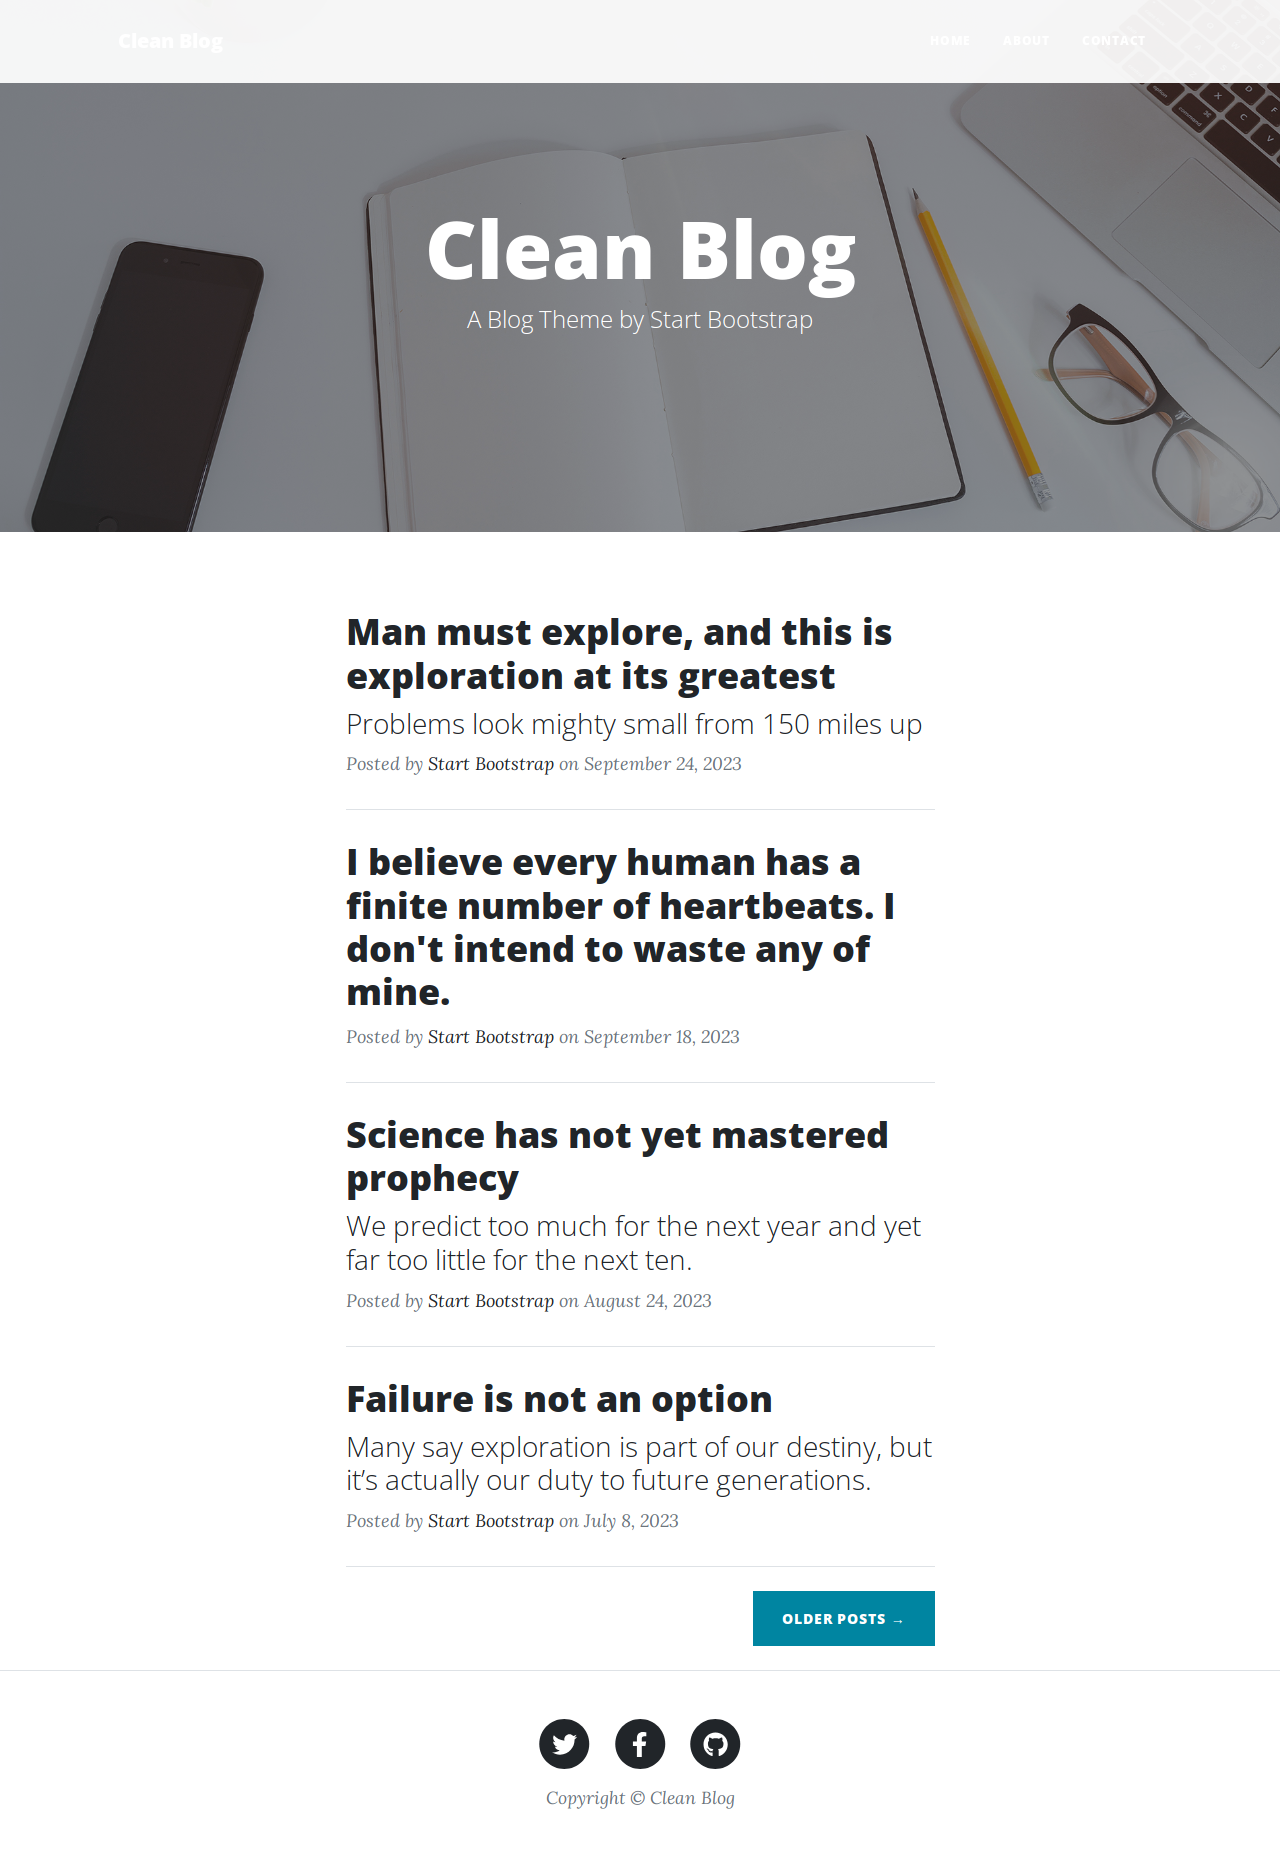
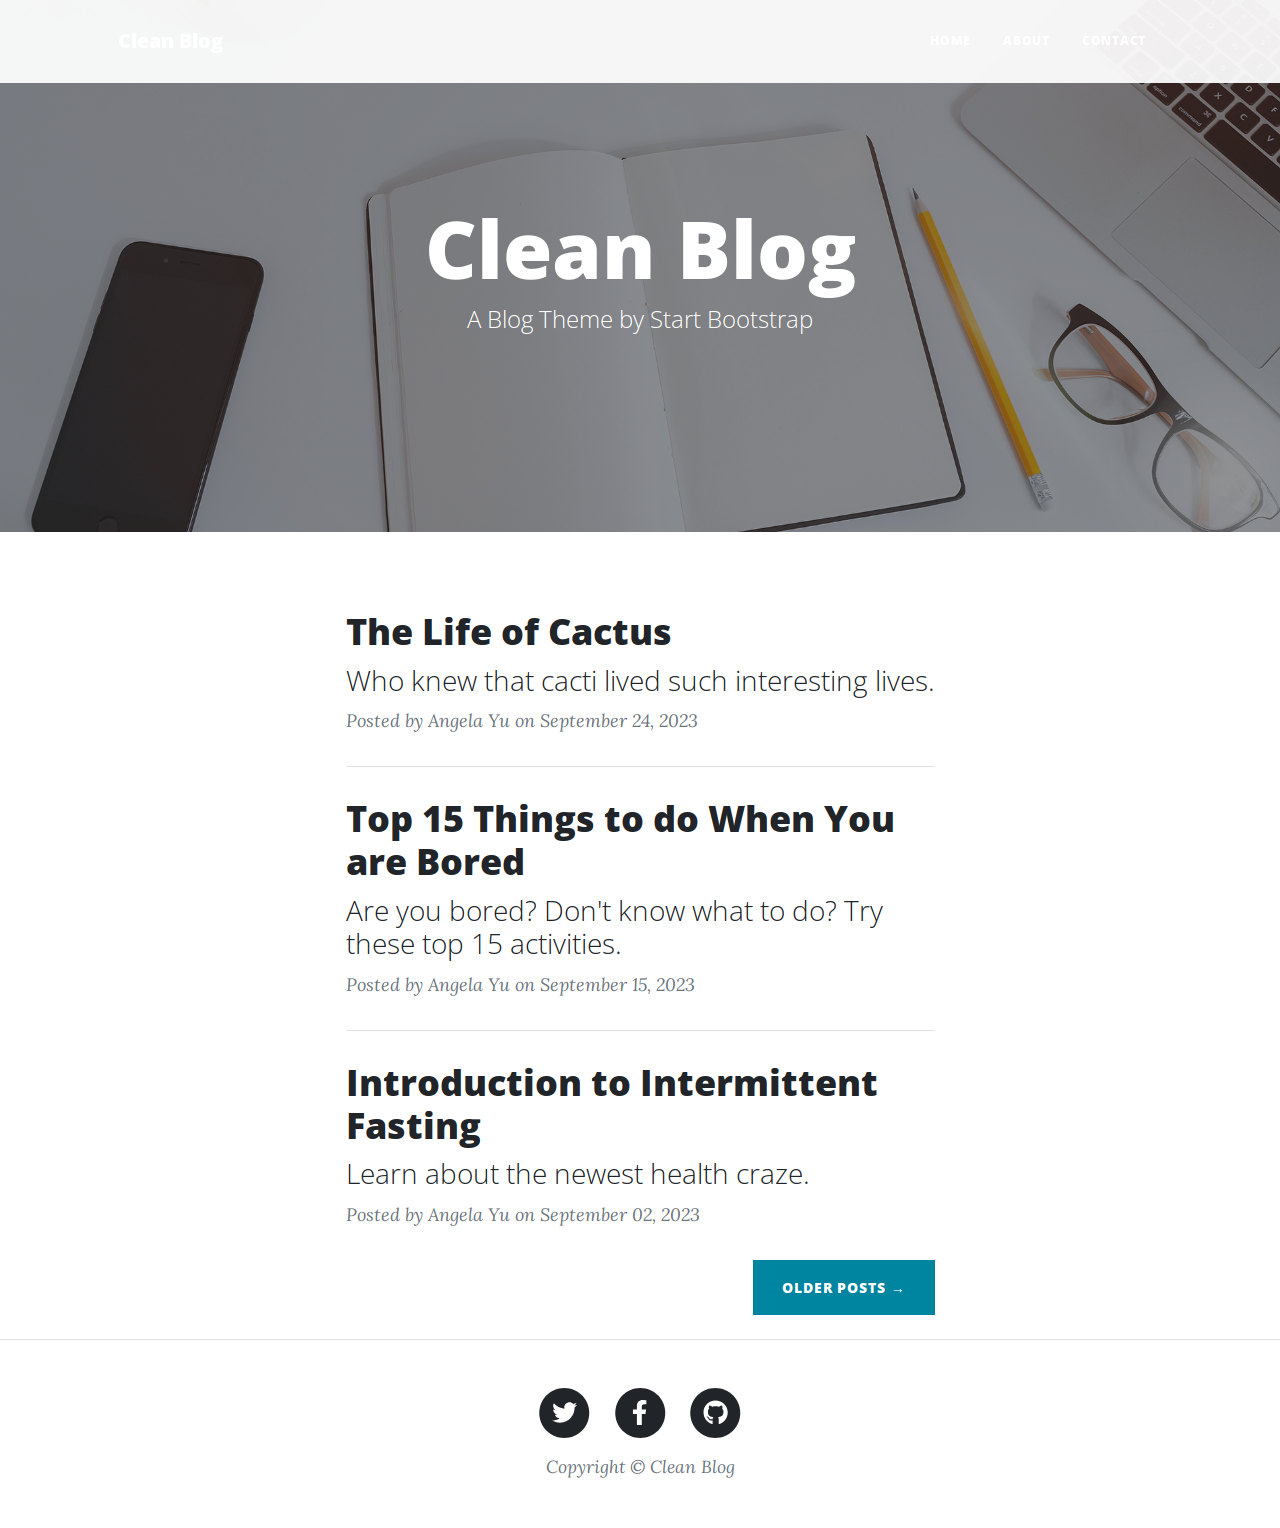
Add step 6-7 screenshots, review record and traceability row
Task: MIL-003#5
Refs #18

Changed region(s): [[0.0, 0.0923, 1.0, 0.9843], [0.0, 0.0308, 1.0, 0.1538]]

diff --git a/docs/sqa/reviews/rc-010-code-mil-003.md b/docs/sqa/reviews/rc-010-code-mil-003.md
@@ -1,0 +1,61 @@
+# Code review of MIL-003
+
+## Metadata
+| Key | Value |
+| --- | --- |
+| ID | RC-010 |
+| CrossReference | [MIL-003], [QC-PY-001] |
+
+## Version History
+| Date | Status | Author | Reviewer | Change | Commit |
+| --- | --- | --- | --- | --- | --- |
+| 2026-11-09 | Proposed | Jens Tirsvad Nielsen | AI as stand-in for S01 | Initial version; Mode: autonomous, not independent | pending |
+
+---
+
+## Artifact Under Review
+
+- Instance reviewed: source code and tests delivered for MIL-003 (posts repository, use cases, routes, templates and tests)
+- Checklist used: [QC-PY-001]
+- Scope: full review
+- Language and domain: n/a
+- Language reviewer: none
+- Mode: autonomous, not independent (reviewer: AI as stand-in for S01)
+
+## Checklist Results
+
+| # | Criterion | Status | Evidence/Notes |
+| --- | --- | --- | --- |
+| 1 | Packages, modules, functions, variables, classes and constants follow PEP 8 casing (`snake_case`, `PascalCase`, `UPPER_SNAKE`) | Pass | ruff (pycodestyle, pyflakes, isort, bugbear, pyupgrade, annotations) reports no naming finding. |
+| 2 | Names state purpose in the domain's language; no unexplained abbreviations, no single-letter names outside tiny scopes | Pass | Names state purpose (posts, repository, show_post); the assignment's function names are kept. |
+| 3 | Code is produced by the project's formatter and passes its linter with no unexplained suppressions | Pass | `ruff format` applied and `ruff check` reports no finding; no suppressions. |
+| 4 | Every function and method signature is type-annotated, including `-> None` | Pass | `ANN` rules of ruff are enabled and pass; `-> None` used. |
+| 5 | No bare `except:`, no swallowed exceptions; specific exceptions are raised and the cause is kept (`raise ... from`) | Pass | No bare except; failures are caught as specific exceptions and the cause is kept or handled by the fallback. |
+| 6 | No mutable default arguments and no shadowed builtins | Pass | ruff bugbear (B006, A) reports nothing. |
+| 7 | Files, locks and connections are managed with context managers | Pass | Network and file access use `with` blocks. |
+| 8 | Public modules, classes and functions have docstrings that say what, not how | Pass | Every public module, class and function has a Doxygen docstring; `doxygen Doxyfile` has 0 warnings. |
+| 9 | Logging uses `logging`, not `print`; no secrets or personal data in log output | Pass | No print calls in src/; no secrets handled. `.env` is not referenced by src/ or tests/. |
+| 10 | Classes and operations trace to the Design Class Diagram they implement; deviations are recorded | Pass | No Design Class Diagram exists; the milestone's Tasks table is the design (domain, application, infrastructure and route rows of MIL-003). |
+| 11 | Tests exist for new behaviour, are named for the behaviour, and do not depend on order or the network | Pass | 50 tests; the URL fetch is injected or monkeypatched, no test opens a socket; order independent. |
+| 12 | Type checker runs in strict mode without errors; `Any` is justified in a comment | Pass | `mypy --strict src` reports no issues. |
+| 13 | Dependencies are declared and pinned in the project's dependency file, none unused | Pass | Flask is the only runtime dependency; pytest, pytest-cov, ruff and mypy are development tools. |
+| 14 | Each piece of knowledge (a business rule, constant, format, validation or query) is defined in one place; code is merged only where it expresses the same knowledge, not where it merely looks alike | Pass | Constants are defined once in `blog/constants.py`; the posts format is defined once in the domain. |
+| 15 | Imports point inward: business-rule modules import no framework, database, UI or delivery-mechanism code, and there are no import cycles | Pass | domain imports nothing from the other layers; application imports domain; infrastructure and presentation import inward only. |
+| 16 | SOLID holds: a class or module has one reason to change; new behaviour is added by extension, not by editing a type test in several places; subclasses honour the contract of their base; protocols are narrow; high-level code depends on protocols or abstract types and receives its implementations | Pass | Use cases receive the repository protocol; the adapter is chosen in the composition root `create_app`. |
+| 17 | Source is laid out in the layers and folders of the clean architecture folder structure (`domain`, `application`, `infrastructure`, `presentation` packages under `src/`, and `unit`, `integration` and `e2e` under `tests/`), in `snake_case`, and imports between the layers point inward | Pass | Layers `domain`, `application`, `infrastructure`, `presentation` under `src/blog`; `unit`, `integration`, `e2e` under `tests/` as needed. |
+| 18 | File and folder names are English, contain no space and no character outside letters, digits, `-`, `_` and `.`, and follow the casing of the language for files | Pass | All new file names are English, snake_case or well-known names. |
+
+## Overall Verdict
+
+Go — every Mandatory criterion passes. Checks run: `ruff check`, `ruff format --check`, `mypy --strict src`, `pytest` (99% line coverage) and `doxygen Doxyfile` (0 warnings). Mode: autonomous, not independent.
+
+## Action Items
+
+| Action | Owner | Due |
+| --- | --- | --- |
+| None | S01 | 2026-11-16 |
+
+---
+
+[MIL-003]: ../../milestones/mil-003-dynamic-posts.md
+[QC-PY-001]: ../../../framework/qc/code/qc-programming-python.md

diff --git a/docs/sqa/traceability-matrix.md b/docs/sqa/traceability-matrix.md
@@ -28,7 +28,7 @@ updated whenever an artifact instance is created or reviewed.
 | PP-001 | PP | en | it | BC-001, SA-001 | MIL-001..004 | RC-003 |
 | MIL-001 | MIL | en | it | BC-001, PP-001 | - | RC-004, RC-008 |
 | MIL-002 | MIL | en | it | BC-001, MIL-001 | - | RC-005, RC-009 |
-| MIL-003 | MIL | en | it | BC-001, MIL-002 | - | RC-006 |
+| MIL-003 | MIL | en | it | BC-001, MIL-002 | - | RC-006, RC-010 |
 | MIL-004 | MIL | en | it | BC-001, MIL-003 | - | RC-007 |
 
 ## Concern Coverage

diff --git a/docs/artifact-registry.md b/docs/artifact-registry.md
@@ -15,7 +15,7 @@ document of a type. `Primary File` may contain a glob (e.g.
 | SA | Stakeholder Analysis | docs/stakeholder-analysis.md | 002 |
 | PP | Project Plan | docs/project-plan.md | 002 |
 | MIL | Milestone / Gateway | docs/milestones/*.md | 005 |
-| RC | SQA Review Record | docs/sqa/reviews/rc-*.md | 010 |
+| RC | SQA Review Record | docs/sqa/reviews/rc-*.md | 011 |
 | TM | Traceability Matrix | docs/sqa/traceability-matrix.md | 002 |
 
 ## Languages
